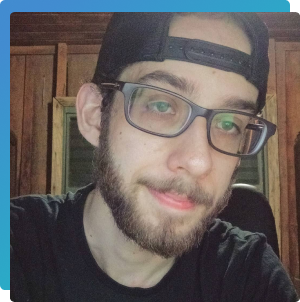
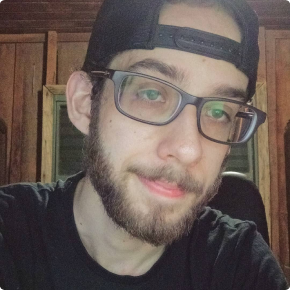
:construction: Hero greetings

diff --git a/styles/main.css b/styles/main.css
@@ -19,7 +19,27 @@ body {
 	align-items: center;
 	flex-wrap: wrap;
 
-	margin: 0 10rem;
+	margin: 0;
+}
+
+@media screen and (min-width: 1600px) {
+	.header {
+		margin: 0 10rem;
+	}
+}
+
+.header > .header__greetings {
+	flex: 1;
+}
+
+.header > .header__greetings h2 {
+	font-weight: normal;
+	display: flex;
+	align-items: center;
+}
+
+.header > .header__greetings h2 img {
+	margin-left: 0.5rem;
 }
 
 .header > .header__greetings h1 {
@@ -37,4 +57,17 @@ body {
 .header > .header__greetings p a {
 	color: var(--link);
 	text-decoration: none;
+}
+
+.header .header__profile-pic {
+	background: linear-gradient(318.78deg, #22b5c3 30.98%, #428cd0 90.7%);
+	border-radius: 5px;
+	width: 290px;
+	height: 290px;
+	position: relative;
+}
+.header .header__profile-pic img {
+	position: absolute;
+	bottom: -10px;
+	right: -10px;
 }

diff --git a/index.html b/index.html
@@ -11,10 +11,10 @@
 	<body>
 		<header class="header">
 			<div class="header__greetings">
-				<p>Olá!</p>
+				<h2>Olá! <img src="./assets/icons/wave.svg" alt="Cumprimento" /></h2>
 				<h1>
-					Eu sou <span>Leandro</span>, dev. front-end e bacharel em Sistemas de
-					Informação
+					Eu sou <span>Leandro</span>, dev. front-end <br />
+					e bacharel em Sistemas de Informação
 				</h1>
 				<p>
 					Atualmente, ocupo a posição de
@@ -23,7 +23,12 @@
 				</p>
 			</div>
 			<div class="header__profile-pic">
-				<img src="./assets/images/hero.png" alt="Perfil Leandro" />
+				<img
+					src="./assets/images/hero.png"
+					alt="Perfil Leandro"
+					width="290px"
+					height="290px"
+				/>
 			</div>
 		</header>
 	</body>
